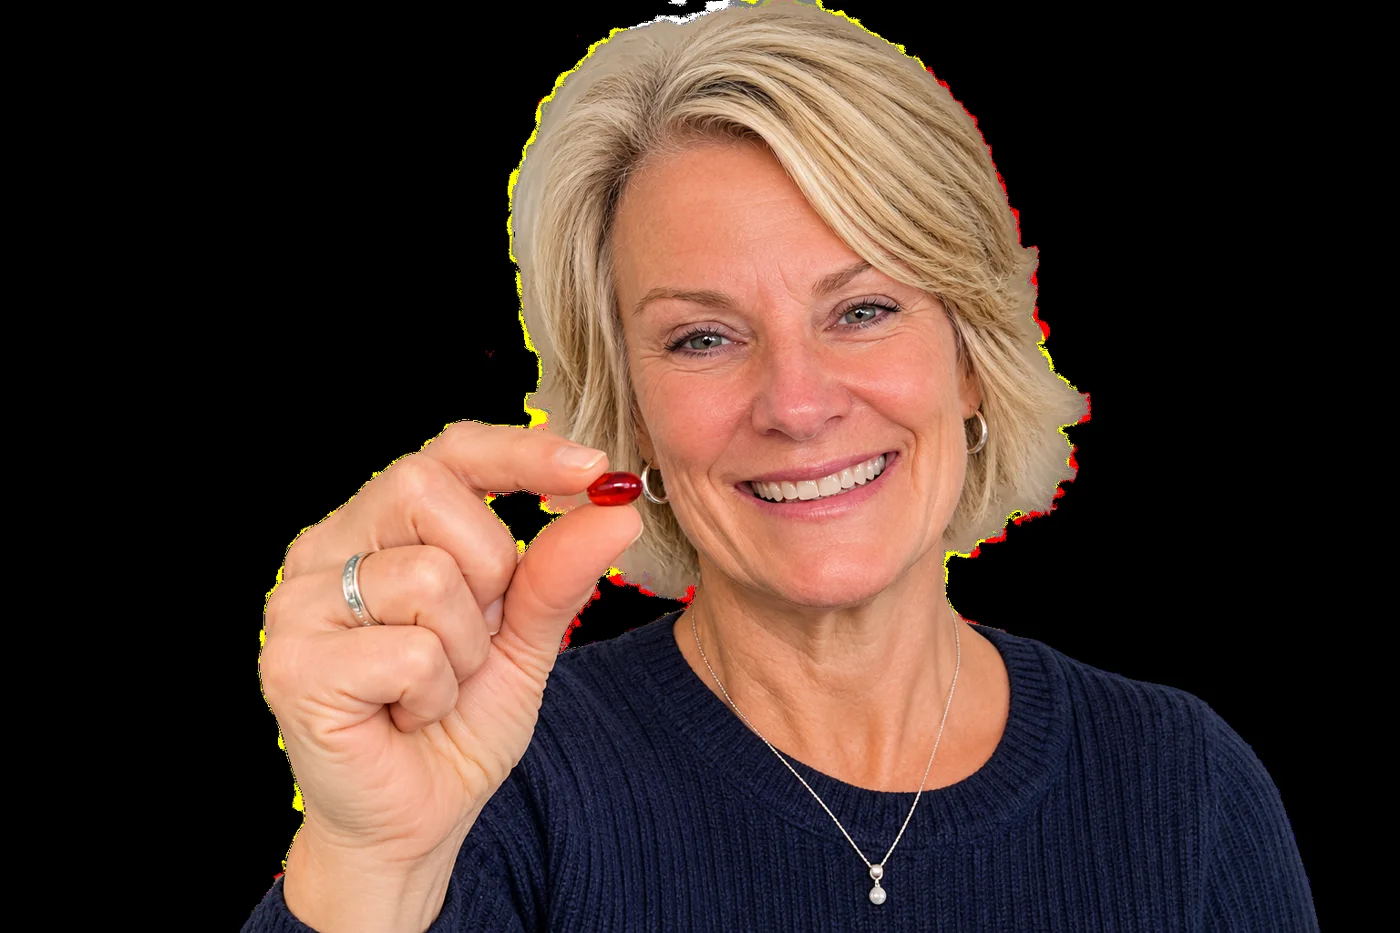
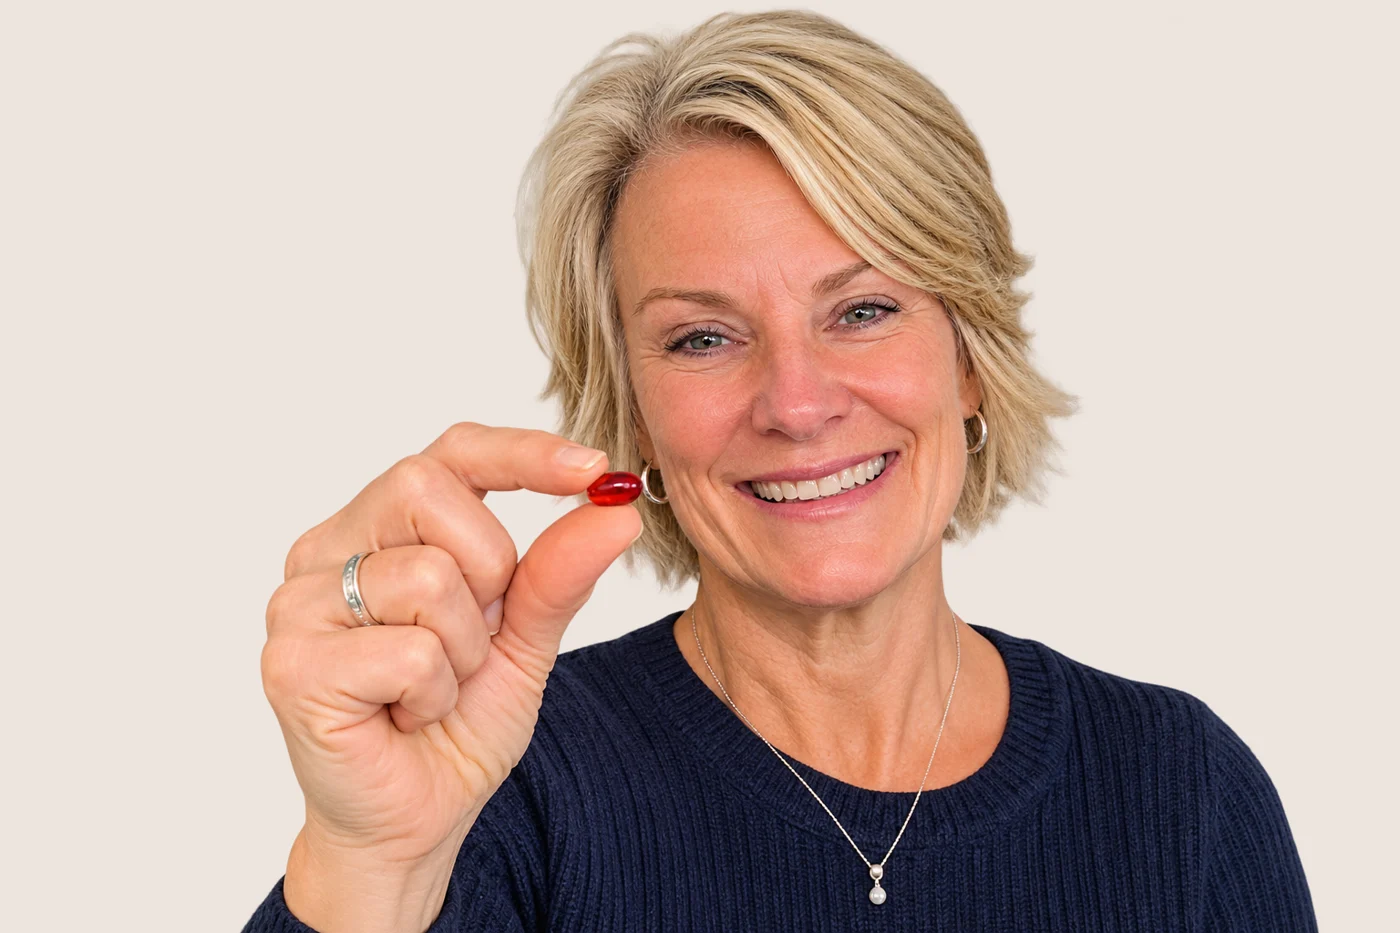
Cayenne: garantiefoto op lichte achtergrond (doorzichtige png goed samengevoegd)
Claude-Session: https://claude.ai/code/session_015S3JaQdoW7XJTLZbosPqjp

diff --git a/cayenne/editor/index.html b/cayenne/editor/index.html
@@ -7,7 +7,7 @@
 <title>Cayenne – Edit &amp; publish</title>
 <link rel="preconnect" href="https://fonts.googleapis.com"><link rel="preconnect" href="https://fonts.gstatic.com" crossorigin>
 <link href="https://fonts.googleapis.com/css2?family=Barlow+Condensed:wght@600;700&family=Inter:wght@400;500;600;700&display=swap" rel="stylesheet">
-<link rel="stylesheet" href="/cayenne/cayenne.css?v=70">
+<link rel="stylesheet" href="/cayenne/cayenne.css?v=71">
 <script>window.JJ_NO_ALPINE=true;window.JJ_IMG_SEL=".ed-img,.ed-pic";window.JJ_BG_SEL=".no-bg";window.JJ_CONTENT_URL="/cayenne/content.json";window.JJ_ASSET_BASE="/cayenne/";window.JJ_NO_APPLY=true;window.JJ_REPO_PREFIX="cayenne/";window.JJ_LIVE_URL=location.origin+"/cayenne";window.JJ_READY_SEL=".bundle";window.JJ_EDITOR=true;</script>
 <script defer src="/apply-content.js?v=sg2"></script>
 <link rel="stylesheet" href="/editor/editor.css">
@@ -117,7 +117,7 @@
 
 <section class="gar"><div class="gar-in">
   <div class="gar-l"><p class="gar-k">90 days. No questions.</p><h2>The Just Jenny <span>Guarantee</span></h2><p class="gar-p">Try it for 90 days. If you're not satisfied, email us for a full refund.</p></div>
-  <div class="gar-r"><div class="ed-img gar-img has-img" style="background-image:url(/cayenne/assets/guarantee.webp)"><span class="slot-label">Photo — person holding the pouch</span></div><div class="gu-seal"><b>90-DAY</b><span>Money Back Guarantee</span></div></div>
+  <div class="gar-r"><div class="ed-img gar-img has-img" style="background-image:url(/cayenne/assets/guarantee.webp?v=2)"><span class="slot-label">Photo — person holding the pouch</span></div><div class="gu-seal"><b>90-DAY</b><span>Money Back Guarantee</span></div></div>
 </div></section>
 
 <footer class="ft"><div class="wrap ft-in">

diff --git a/cayenne/index.html b/cayenne/index.html
@@ -7,7 +7,7 @@
 <title>Just Jenny Cayenne Pepper Softgels</title>
 <link rel="preconnect" href="https://fonts.googleapis.com"><link rel="preconnect" href="https://fonts.gstatic.com" crossorigin>
 <link href="https://fonts.googleapis.com/css2?family=Barlow+Condensed:wght@600;700&family=Inter:wght@400;500;600;700&display=swap" rel="stylesheet">
-<link rel="stylesheet" href="/cayenne/cayenne.css?v=70">
+<link rel="stylesheet" href="/cayenne/cayenne.css?v=71">
 <script>window.JJ_NO_ALPINE=true;window.JJ_IMG_SEL=".ed-img,.ed-pic";window.JJ_BG_SEL=".no-bg";window.JJ_CONTENT_URL="/cayenne/content.json";window.JJ_ASSET_BASE="/cayenne/";</script>
 <script defer src="/apply-content.js?v=sg2"></script>
 </head>
@@ -115,7 +115,7 @@
 
 <section class="gar"><div class="gar-in">
   <div class="gar-l"><p class="gar-k">90 days. No questions.</p><h2>The Just Jenny <span>Guarantee</span></h2><p class="gar-p">Try it for 90 days. If you're not satisfied, email us for a full refund.</p></div>
-  <div class="gar-r"><div class="ed-img gar-img has-img" style="background-image:url(/cayenne/assets/guarantee.webp)"><span class="slot-label">Photo — person holding the pouch</span></div><div class="gu-seal"><b>90-DAY</b><span>Money Back Guarantee</span></div></div>
+  <div class="gar-r"><div class="ed-img gar-img has-img" style="background-image:url(/cayenne/assets/guarantee.webp?v=2)"><span class="slot-label">Photo — person holding the pouch</span></div><div class="gu-seal"><b>90-DAY</b><span>Money Back Guarantee</span></div></div>
 </div></section>
 
 <footer class="ft"><div class="wrap ft-in">

diff --git a/cayenne/cayenne.css b/cayenne/cayenne.css
@@ -742,3 +742,6 @@ h2.sel{font-size:14.5px;margin:18px 0 14px;gap:14px}@media(max-width:900px){h2.s
 
 .gar-img{background-color:#fff;background-size:cover;background-position:60% 30%;background-repeat:no-repeat}
 .gar .gu-seal{background:#fff;box-shadow:0 0 0 5px #fff,0 0 0 6px rgba(185,131,45,.45)}
+
+.gar-img{background-color:#EDE5DF}
+.gar .gu-seal{background:#F5F1EC;box-shadow:0 0 0 5px #F5F1EC,0 0 0 6px rgba(185,131,45,.45)}

diff --git a/cayenne/build.py b/cayenne/build.py
@@ -123,7 +123,7 @@ html = f'''<!DOCTYPE html>
 <title>Just Jenny Cayenne Pepper Softgels</title>
 <link rel="preconnect" href="https://fonts.googleapis.com"><link rel="preconnect" href="https://fonts.gstatic.com" crossorigin>
 <link href="https://fonts.googleapis.com/css2?family=Barlow+Condensed:wght@600;700&family=Inter:wght@400;500;600;700&display=swap" rel="stylesheet">
-<link rel="stylesheet" href="/cayenne/cayenne.css?v=70">
+<link rel="stylesheet" href="/cayenne/cayenne.css?v=71">
 <!--HEAD-EXTRA-->
 </head>
 <body>
@@ -230,7 +230,7 @@ html = f'''<!DOCTYPE html>
 
 <section class="gar"><div class="gar-in">
   <div class="gar-l"><p class="gar-k">90 days. No questions.</p><h2>The Just Jenny <span>Guarantee</span></h2><p class="gar-p">Try it for 90 days. If you're not satisfied, email us for a full refund.</p></div>
-  <div class="gar-r">{slot('ed-img gar-img has-img', 'Photo — person holding the pouch', ' style="background-image:url(/cayenne/assets/guarantee.webp)"')}<div class="gu-seal"><b>90-DAY</b><span>Money Back Guarantee</span></div></div>
+  <div class="gar-r">{slot('ed-img gar-img has-img', 'Photo — person holding the pouch', ' style="background-image:url(/cayenne/assets/guarantee.webp?v=2)"')}<div class="gu-seal"><b>90-DAY</b><span>Money Back Guarantee</span></div></div>
 </div></section>
 
 <footer class="ft"><div class="wrap ft-in">
